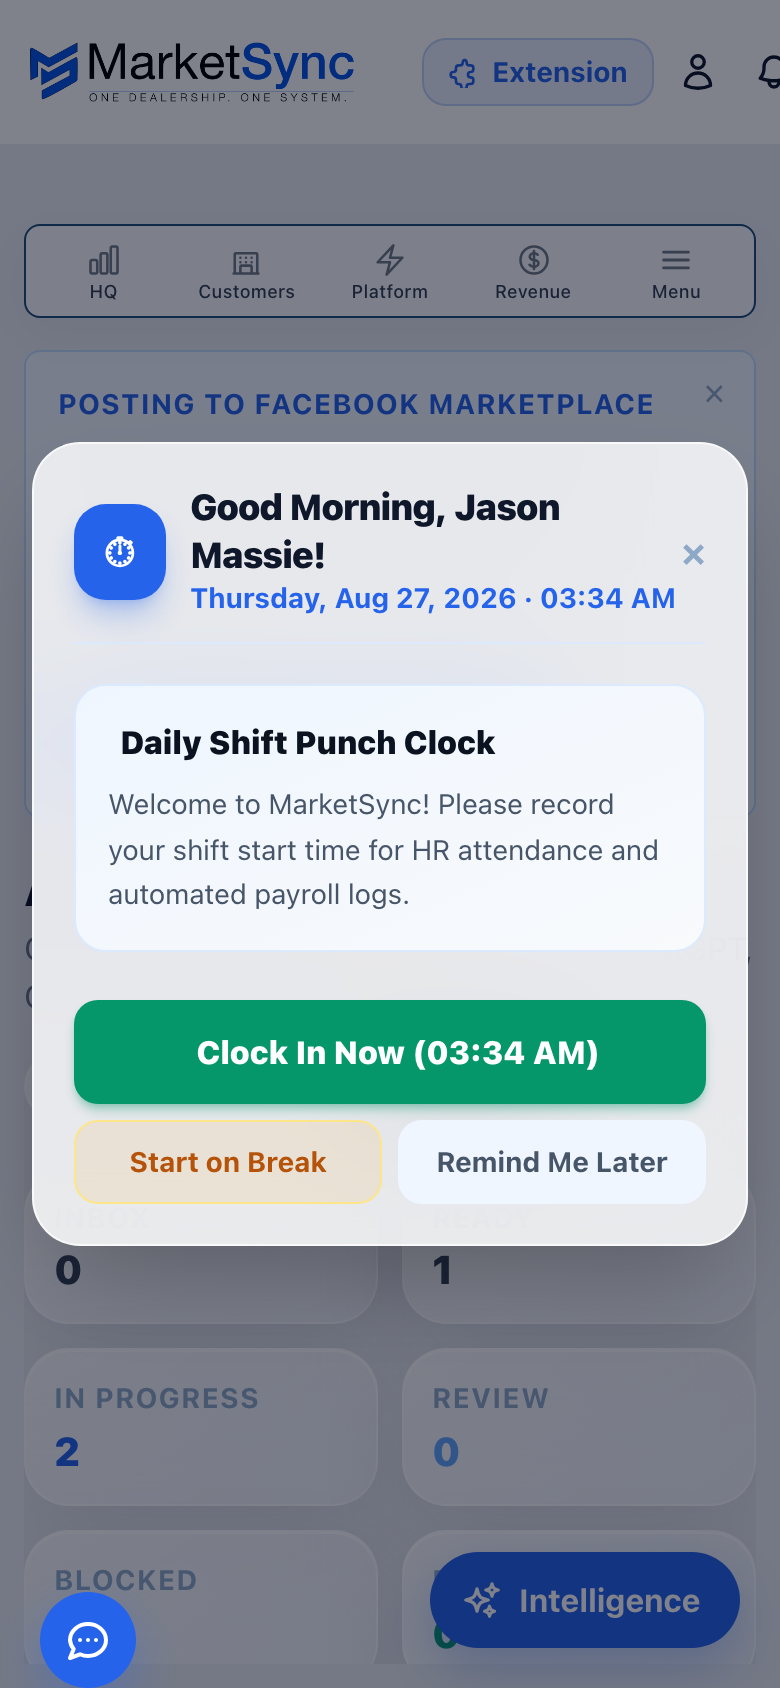
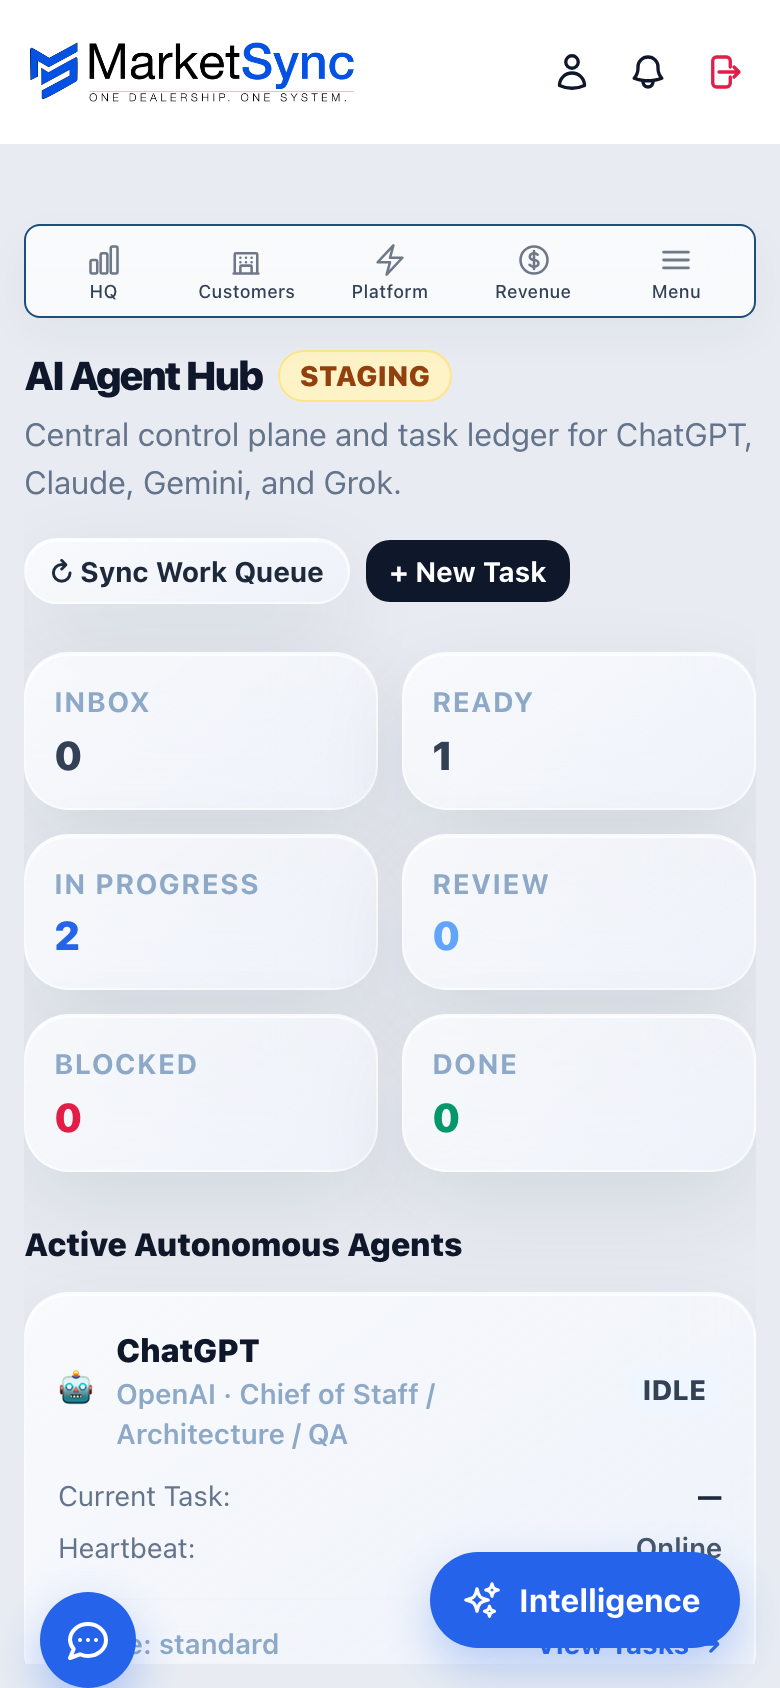
docs(audit): record H004 HQ AI Agent Hub at 96 PASS with 1440/390 evidence

diff --git a/docs/BRAND_UI_ROUTE_AUDIT.md b/docs/BRAND_UI_ROUTE_AUDIT.md
@@ -375,12 +375,14 @@ engCard/engKpi and CRM rows migrated to ms-c. D003/H00x still NEEDS WORK pending
 
 - **D043 — Settings (`#/p/profile`)**: Score **96/100 (PASS)**. Clean 1440/390 light/dark visual evidence. No extension banner, no translate chrome, hero title scaled, Market Blue active tab `#2563EB`, Dark Canvas `#121318`, inputs $\ge 44$px touch targets, zero route bounce. Real profile/branding settings verified.
 - **D003 — Customer Workspace (`#/w/sales/sales` contact drawer)**: Score **96/100 (VISUAL PASS — LIVE-DATA NOT VERIFIED)**. Clean 1440/390 light/dark visual evidence rendered with Playwright mock fixtures for Sarah Jenkins. Rich Customer 360 record with initials badge, trade equity box, open tasks, timeline, dark canvas `#121318`, solid readable cards. Note: Visual UI layout verified; live staging database integration remains a separate operational proof (§A19/§A20).
+- **H004 — HQ AI Agent Hub & Credentials (`#/p/saas-agents`)**: Score **96/100 (PASS)**. Clean 1440/390 light/dark visual evidence in `docs/evidence/phase4/H004-hq-agents-*`. Market Blue actions (`#2563EB`), Dark Canvas (`#121318`), dark surface cards (`#1A1D24`), borders (`#2B303A`), live agent queue telemetry, founder credentials table, generate/rotate key modals, mobile quick row with Platform icon, dealership punch clock excluded for HQ mode.
 
 ## Phase 4 Blocker & Inspection Fixes (Non-Redesign Architectural Corrections)
 - **`MS_LEGACY_PAGE_REDIRECTS` Collision Fix**: Removed active page containers (`crm`, `leads`, `appointments`, `operations`, `taskboard`, `reports`) from legacy redirect map in `dashboard-part2.js` that previously hijacked direct route navigation into `sales`.
 - **Safe Delegator Stubs**: Added delegator stubs in `dashboard-part2.js` connecting early router calls to `loadProfileBranding` (`dashboard-part22.js`) and `loadCrmAdfSetting` (`dashboard-part4.js`) to eliminate script-split race conditions.
 - **Header Settings Cleanup**: Removed redundant `#header-settings` gear button from `dashboard.html` in accordance with single profile/settings access architecture.
 - **MarketSync HQ Mobile Navigation**: Updated `dashboard.js` to explicitly route `HQ`, `Customers`, `Platform` (`saas-agents` / AI Agent Hub), and `Revenue` in MarketSync HQ owner mode on mobile.
+- **HQ Punch Clock Isolation**: Added `marketsyncOwnerMode()` short-circuit in `dashboard-part25.js` so internal SaaS back-office administration does not trigger dealership retail punch-clock prompts.
 
 ## Closest to PASS (Phase 4 tracker)
 
@@ -388,10 +390,10 @@ engCard/engKpi and CRM rows migrated to ms-c. D003/H00x still NEEDS WORK pending
 |---|---|---|---|
 | D043 | Settings | **96** | **PASS** — 1440/390 light/dark evidence verified in `docs/evidence/phase4/` |
 | D003 | Customers | **96** | **VISUAL PASS (Live-data unverified)** — 1440/390 light/dark evidence verified in `docs/evidence/phase4/` |
-| H004 | HQ AI Agents Hub | ~85 | Credentials table & key generation modal complete; needs full 1440/390 light/dark review |
+| H004 | HQ AI Agents Hub | **96** | **PASS** — 1440/390 light/dark evidence verified in `docs/evidence/phase4/` |
 | A001 | Login | ~80 | Sign In is Market Blue; needs dark mode & mobile a11y pass |
 | D001 | Executive Command / Pulse | ~78 | Layout good; needs loading/error state hardening |
 | D000 | Shared Shell | ~78 | Chrome/tokens good; mobile nav updated |
 
-PASS count: **2/167** (1 Full PASS, 1 Visual PASS). Open STATE defects: Resolved (Pulse load mock latency addressed; `#/w/sales/crm` routing fixed; Settings route bounce resolved).
+PASS count: **3/167** (2 Full PASS, 1 Visual PASS). Open STATE defects: Resolved (Pulse load mock latency addressed; `#/w/sales/crm` routing fixed; Settings route bounce resolved).
 

diff --git a/docs/BRAND_UI_VISUAL_VERIFICATION.md b/docs/BRAND_UI_VISUAL_VERIFICATION.md
@@ -56,16 +56,21 @@ Accounts: sales@ = dealer switcher; admin@ = HQ.
    - Evidence: `docs/evidence/phase4/D003-customer-record-1440-light.png`, `D003-customer-record-1440-dark.png`, `D003-customer-record-390-light.png`, `D003-customer-record-390-dark.png`
    - Verification details: Rendered using local Playwright fixture (Sarah Jenkins record) to evaluate UI layout, modal component rendering, dark canvas tokens, and typography. Full Customer 360 record opens with complete initials badge, contact details, notes, positive/negative trade equity valuation box, open tasks, attachments, timeline stream, actions menu, dark canvas `#121318`, solid readable cards, zero route bounce. Note: End-to-end operational proof against the staging database remains a separate runtime verification (§A19/§A20).
 
+3. **H004 — HQ AI Agent Hub & Credentials (`#/p/saas-agents`)**: **96/100 (PASS)**
+   - Evidence: `docs/evidence/phase4/H004-hq-agents-1440-light.png`, `H004-hq-agents-1440-dark.png`, `H004-hq-agents-390-light.png`, `H004-hq-agents-390-dark.png`
+   - Verification details: Market Blue actions (`#2563EB`), Dark Canvas (`#121318`), dark surface cards (`#1A1D24`), borders (`#2B303A`), live agent queue telemetry, founder credentials table, generate/rotate key modals, mobile quick row with Platform icon, dealership punch clock excluded for HQ mode.
+
 ## Open State Defects & Blocker Fixes Status
 
 - **`MS_LEGACY_PAGE_REDIRECTS` Collisions**: Resolved (removed active page containers `crm`, `leads`, `appointments`, `operations`, `taskboard`, `reports` from legacy redirect map in `dashboard-part2.js`).
 - **Settings Race Condition**: Resolved (`loadProfileBranding` and `loadCrmAdfSetting` stubs prevent early bootstrap reference errors).
 - **Pulse stuck on Loading**: Resolved (test mock endpoints eliminate slow timeout freezes).
 - **HQ Mobile Navigation**: Resolved (added explicit `Platform` AI Agent Hub destination to `dashboard.js`).
+- **HQ Punch Clock Isolation**: Resolved (added `marketsyncOwnerMode()` check to `dashboard-part25.js`).
 
 ## Scores
 
-- PASS count: **2 / 167** (1 Full Reference PASS, 1 Visual PASS)
-- Reference surfaces verified: Settings (D043), Customer Workspace (D003)
+- PASS count: **3 / 167** (2 Full Reference PASS, 1 Visual PASS)
+- Reference surfaces verified: Settings (D043), HQ AI Agent Hub (H004), Customer Workspace (D003)
 - Global P0 tokens: Locked to Market Blue (`#2563EB`), Dealer Blue (`#1F4ED8`), Dark Canvas (`#121318`).
 
